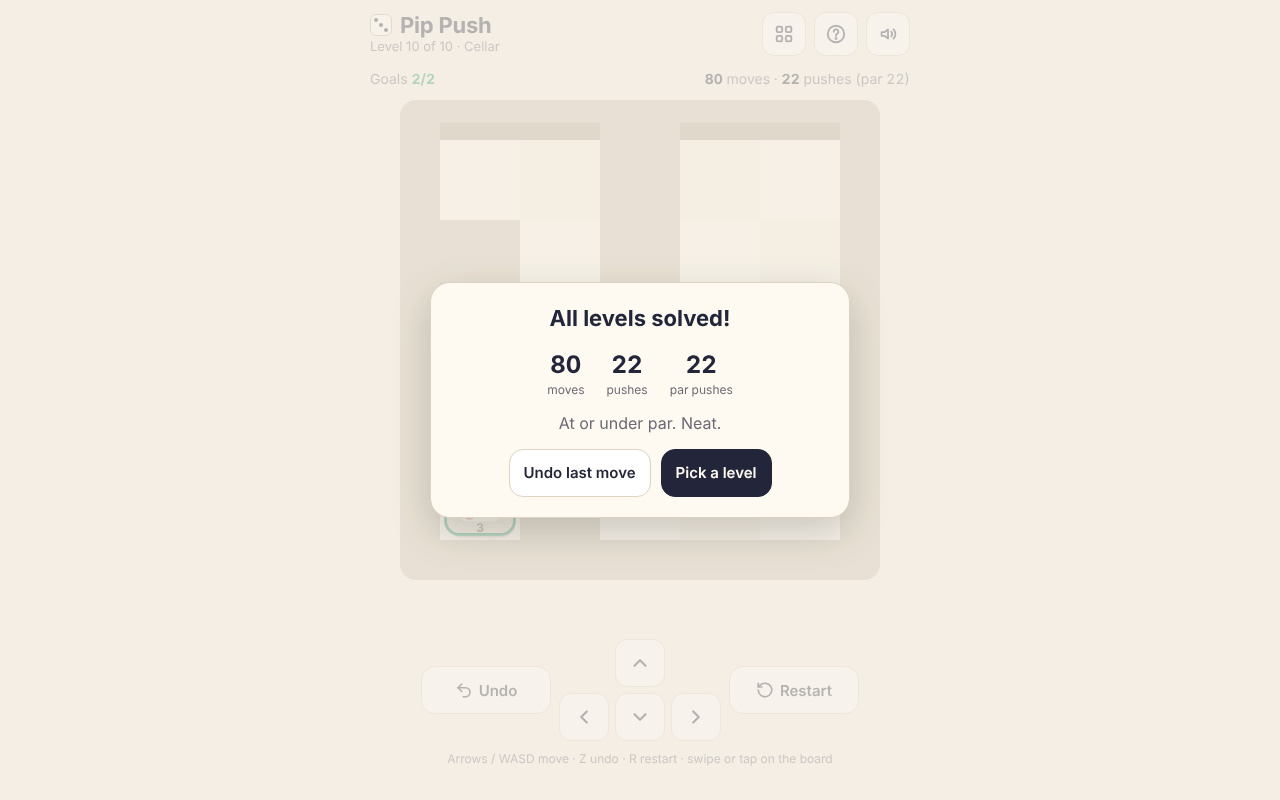
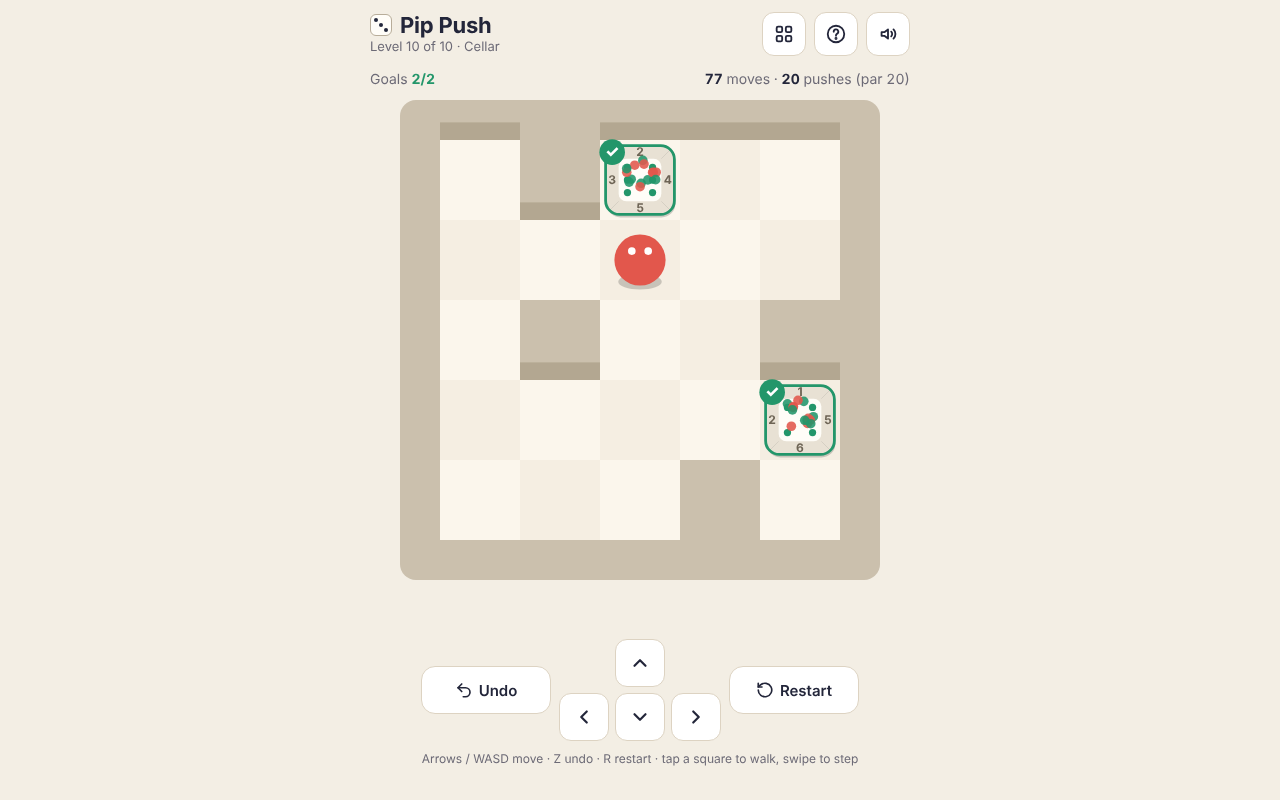
pip-push: reviewer fixes — tap-to-walk, levels 4-10 re-picked without push loops, win card waits, digits on goals, confetti cleared
Claude-Session: https://claude.ai/code/session_01CKorFHqhWqDpMXxzzfGbci

diff --git a/games/pip-push/index.html b/games/pip-push/index.html
@@ -118,7 +118,7 @@
     </div>
     <button class="big" id="restartBtn" aria-label="Restart (R)"><svg viewBox="0 0 24 24"><path d="M3 12a9 9 0 1 0 3-6.7L3 8"/><path d="M3 3v5h5"/></svg><span class="lbl">Restart</span></button>
   </div>
-  <p class="keys">Arrows / WASD move · Z undo · R restart · swipe or tap on the board</p>
+  <p class="keys">Arrows / WASD move · Z undo · R restart · tap a square to walk, swipe to step</p>
 </main>
 
 <div class="sheet" id="winSheet" hidden>
@@ -144,6 +144,7 @@
       <li>The die tips over as it moves: <b>the side you push against becomes the top.</b></li>
       <li>The small numbers around a die are its side faces. Opposite faces add up to 7.</li>
       <li>Get every die onto a goal showing that goal's number on top.</li>
+      <li>Tap a free square to walk there (it never pushes). Tap or swipe next to a die to push it.</li>
       <li>Stuck? Undo as often as you like, or Restart.</li>
     </ol>
     <label class="toggle"><span>Show side faces on dice</span><input type="checkbox" id="sidesToggle" checked></label>
@@ -160,19 +161,20 @@ const LEVELS = /*LEVELS*/[
   {"name":"First roll","map":["#######","#@....#","#######"],"dice":[[2,1,1,2,3]],"goals":[[5,1,3]],"sol":"RRR","par":3},
   {"name":"Side step","map":["######","#....#","#@...#","#....#","######"],"dice":[[3,2,4,1,5]],"goals":[[4,3,6]],"sol":"URRRDLULDLDRR","par":4},
   {"name":"Nook","map":["######","#.#.@#","#....#","#....#","######"],"dice":[[2,2,4,2,1]],"goals":[[4,3,3]],"sol":"DDLLLURDRRUULDLDR","par":3},
-  {"name":"Corner three","map":["######","#....#","#....#","##...#","#.@..#","######"],"dice":[[2,3,5,6,4]],"goals":[[4,1,3]],"sol":"URUULLDRURDRDLDLURUULLDRURDLDRDRUU","par":10},
+  {"name":"Turnaround","map":["######","#....#","#@...#","#....#","######"],"dice":[[3,2,2,6,3]],"goals":[[4,1,6]],"sol":"URRRDLDLULURR","par":4},
+  {"name":"Wander","map":["#######","#...#.#","#..@..#","##....#","#.....#","#######"],"dice":[[2,2,2,1,4]],"goals":[[1,2,2]],"sol":"ULLDRURDLDRDRURULDLLUURDRDLDLURUL","par":9},
   {"name":"Two dice","map":["######","#@...#","#....#","#....#","#....#","######"],"dice":[[2,3,3,5,1],[3,4,4,6,2]],"goals":[[1,4,3],[2,1,6]],"sol":"DDDRULURURDRDLRDLLULURDRURUL","par":10},
-  {"name":"Long way round","map":["#######","#..@..#","#....##","#.#...#","#.....#","#######"],"dice":[[3,3,4,2,1]],"goals":[[1,1,6]],"sol":"DRDDLUDLLUURRURDLDDRRULDLUDLLUURRURDLDDRRULDLUURULL","par":12},
-  {"name":"Tight shelf","map":["#######","##....#","#....##","#.#...#","#.@...#","#######"],"dice":[[4,1,2,3,1],[3,2,3,6,5]],"goals":[[5,1,6],[4,2,3]],"sol":"LUURRURDLDDRRULDLUDLLUURRURDLDDRRULDLUDLLUURR","par":10},
-  {"name":"Pillar","map":["#######","#.....#","#.#@..#","#.....#","#.....#","#######"],"dice":[[4,2,1,3,5],[2,3,1,5,4]],"goals":[[3,3,5],[1,3,1]],"sol":"URDRDLDLUDLLURRDRURUULLDULLDDRRUURRDLULDRRDDLULLRUURDRDL","par":15},
-  {"name":"Twin twos","map":["#######","#..@.##","#.....#","##....#","##...##","#######"],"dice":[[4,3,6,4,5],[3,3,5,4,1]],"goals":[[3,2,2],[2,4,2]],"sol":"DLDDRRULDLURUULLDRURDLDDRRULDLURRRULULDRDLUULLDRDURURDRDLDLU","par":16},
-  {"name":"Cellar","map":["#######","#..#..#","##.#..#","#.....#","#.@...#","#.#...#","#######"],"dice":[[3,3,2,6,3],[3,4,5,3,6]],"goals":[[1,5,1],[2,3,6]],"sol":"URLDRDRRULRUULDRDDLLULURDDRRULRUULDRDDLLULURDDRRULULLDRDRURULRUULDDRDLLLULDRRRUL","par":22}
+  {"name":"Crossing","map":["######","#....#","#@...#","#....#","##..##","######"],"dice":[[2,2,4,6,2],[2,3,5,3,6]],"goals":[[1,1,4],[4,3,3]],"sol":"RURRDDLDLULUURRDULLDRURRDDLDLULUURRDULLDRDRURULL","par":12},
+  {"name":"Open floor","map":["#######","##....#","#.....#","#.....#","#...@.#","#######"],"dice":[[4,2,1,3,5],[4,3,5,6,4]],"goals":[[2,4,4],[5,3,1]],"sol":"RULDLULUURRDRDLUULLDRDUURDRDLDLULURRURD","par":13},
+  {"name":"Post","map":["#######","#.....#","#.....#","#.#...#","#...@##","#######"],"dice":[[3,2,5,6,4],[4,2,4,5,6]],"goals":[[1,2,4],[5,2,2]],"sol":"URUULDULLDRURRDDLDLURRUULDULLDRURRDDLDLURRUULDLLRRRDLDLURUULLDRR","par":15},
+  {"name":"Cellar","map":["#######","#.#...#","#...@.#","#.#..##","#.....#","#...#.#","#######"],"dice":[[2,2,4,1,5],[3,4,4,1,5]],"goals":[[3,1,6],[5,4,4]],"sol":"DDLDLLUUURRURDLLLDDRDRUUDLLUURRURRDLLDDRULUURRDLULDRDDLLLUURRURDDULLLDDRRRLUU","par":20}
 ];
 const TIPS = {
   0: "Walk into the die to push it. Watch the top number change.",
   1: "<b>The side you push against becomes the top.</b> The small numbers are the sides.",
   2: "Sometimes you have to walk around a die to push it from another side.",
-  4: "Two dice, two goals. Each goal wants its own number.",
+  3: "A small loop turns a die: push it one way, then around and back. Tap a square to walk there.",
+  5: "Two dice, two goals. Each goal wants its own number.",
 };
 const DIRS = { U: [0, -1], D: [0, 1], L: [-1, 0], R: [1, 0] };
 const SAVE_KEY = "pippush.v1";
@@ -326,7 +328,10 @@ function drawGoal(x, y, n, covered, met) {
   ctx.setLineDash([cell * 0.09, cell * 0.07]); ctx.lineWidth = Math.max(1.5, cell * 0.04);
   ctx.strokeStyle = met ? C.ok : C.goal; rr(px + m, py + m, cell - 2 * m, cell - 2 * m, cell * 0.18); ctx.stroke();
   ctx.setLineDash([]);
-  if (!covered) { ctx.globalAlpha = 0.75; drawPips(px + cell / 2, py + cell / 2, cell * 0.62, n, C.goal); }
+  if (!covered) { // digits, like the side faces, so numbers read the same everywhere
+    ctx.fillStyle = C.goal; ctx.font = `800 ${Math.round(cell * 0.44)}px system-ui, sans-serif`; ctx.textAlign = "center"; ctx.textBaseline = "middle";
+    ctx.fillText(n, px + cell / 2, py + cell / 2 + cell * 0.02);
+  }
   ctx.restore();
 }
 function drawBadge(x, y, n, met) {
@@ -384,7 +389,9 @@ function draw(now) {
   g.lv.goals.forEach((q, i) => { const di = dieAt(g, q.x, q.y); if (di >= 0 && !(anim && anim.push && anim.dieIndex === di)) drawBadge(q.x, q.y, q.n, status[i]); });
   // player
   let ppx = g.player[0] * cell, ppy = g.player[1] * cell;
-  if (anim) { const f = anim.from.player, [dx, dy] = DIRS[anim.d]; ppx = (f[0] + dx * k) * cell; ppy = (f[1] + dy * k) * cell; }
+  if (anim && anim.walk) { const pts = anim.walk, u = t * (pts.length - 1), i = Math.min(pts.length - 2, Math.floor(u)), f = u - i;
+    ppx = (pts[i][0] + (pts[i + 1][0] - pts[i][0]) * f) * cell; ppy = (pts[i][1] + (pts[i + 1][1] - pts[i][1]) * f) * cell; }
+  else if (anim) { const f = anim.from.player, [dx, dy] = DIRS[anim.d]; ppx = (f[0] + dx * k) * cell; ppy = (f[1] + dy * k) * cell; }
   if (shake && !shake.dieIndex && shake.dieIndex !== 0) { const st = (now - shake.t0) / 220; if (st < 1) { const amp = Math.sin(st * Math.PI * 6) * (1 - st) * cell * 0.05; ppx += DIRS[shake.d][0] * amp; ppy += DIRS[shake.d][1] * amp; } }
   if (shake && now - shake.t0 > 220) shake = null;
   drawPlayer(ppx, ppy, facing);
@@ -413,7 +420,9 @@ function renderUI() {
   $("restartBtn").disabled = !(g.moves > 0 || g.history.length);
   canvas.setAttribute("aria-label", describe());
   const won = g.screen === "won";
-  $("winSheet").hidden = !won;
+  // let the player see the last die land before the card covers the board
+  if (!won) { clearTimeout(winTimer); winTimer = null; $("winSheet").hidden = true; }
+  else if ($("winSheet").hidden && !winTimer) winTimer = setTimeout(() => { winTimer = null; if (game.screen === "won") { $("winSheet").hidden = false; $("wNext").focus(); } }, reduceMotion ? 300 : 700);
   if (won) {
     const last = g.level === LEVELS.length - 1;
     $("wMoves").textContent = g.moves; $("wPushes").textContent = g.pushes; $("wPar").textContent = L.par;
@@ -432,11 +441,35 @@ function describe() {
   g.lv.goals.forEach((q) => parts.push(`Goal at column ${q.x}, row ${q.y} wants ${q.n}.`));
   return parts.join(" ");
 }
+let winTimer = null;
 function sync() { renderUI(); requestDraw(); }
+// shortest walk to a free square that pushes nothing (tap-to-walk)
+function walkPath(g, tx, ty) {
+  const w = g.lv.w, key = (x, y) => y * w + x, start = key(g.player[0], g.player[1]);
+  const prev = new Map([[start, null]]), q = [[g.player[0], g.player[1]]];
+  while (q.length) {
+    const [x, y] = q.shift();
+    if (x === tx && y === ty) { const path = []; let k = key(x, y); while (prev.get(k)) { const [pk, d] = prev.get(k); path.unshift(d); k = pk; } return path; }
+    for (const d of "UDLR") { const nx = x + DIRS[d][0], ny = y + DIRS[d][1], nk = key(nx, ny);
+      if (isWall(g, nx, ny) || dieAt(g, nx, ny) >= 0 || prev.has(nk)) continue; prev.set(nk, [key(x, y), d]); q.push([nx, ny]); }
+  }
+  return null;
+}
+function walkTo(tx, ty) {
+  const path = walkPath(game, tx, ty);
+  if (!path || !path.length) { sfx.bump(); return; }
+  const before = game, pts = [before.player.slice()];
+  let g = game;
+  for (const d of path) { g = applyMove(g, d).g; pts.push(g.player.slice()); }
+  game = { ...g, history: before.history.concat([snapshot(before)]) }; // one undo step for the whole walk
+  facing = path[path.length - 1];
+  anim = reduceMotion ? null : { t0: performance.now(), dur: Math.min(500, 55 * path.length), from: before, walk: pts, push: false };
+  sfx.step(); sync();
+}
 
 // ================= actions =================
 function doAction(a) {
-  if (a === "undo") { game = undo(game); anim = null; sync(); return; }
+  if (a === "undo") { game = undo(game); anim = null; burst = null; sync(); return; }
   if (a === "restart") { game = restart(game); anim = null; sync(); return; }
   if (!DIRS[a]) return;
   facing = a;
@@ -466,7 +499,7 @@ function doAction(a) {
 function loadLevel(i) {
   game = newGame(Math.max(0, Math.min(LEVELS.length - 1, i)));
   save.level = game.level; persist();
-  anim = null; facing = "D"; layout(); sync();
+  anim = null; burst = null; shake = null; facing = "D"; layout(); sync();
 }
 
 // ================= input =================
@@ -498,23 +531,23 @@ canvas.addEventListener("pointerup", (e) => {
   if (Math.hypot(dx, dy) > Math.max(18, cell * 0.35)) { doAction(Math.abs(dx) > Math.abs(dy) ? (dx > 0 ? "R" : "L") : (dy > 0 ? "D" : "U")); return; }
   const rect = canvas.getBoundingClientRect();
   const cx = Math.floor((e.clientX - rect.left) / cell + 0.5), cy = Math.floor((e.clientY - rect.top) / cell + 0.5);
-  const [px, py] = game.player;
-  if (cx === px && cy !== py) doAction(cy < py ? "U" : "D");
-  else if (cy === py && cx !== px) doAction(cx < px ? "L" : "R");
-  else if (cx !== px || cy !== py) { // diagonal tap: step along the longer axis
-    const ax = cx - px, ay = cy - py; doAction(Math.abs(ax) >= Math.abs(ay) ? (ax > 0 ? "R" : "L") : (ay > 0 ? "D" : "U"));
-  }
+  const [px, py] = game.player, ax = cx - px, ay = cy - py;
+  if (Math.abs(ax) + Math.abs(ay) === 1) doAction(ax ? (ax > 0 ? "R" : "L") : (ay > 0 ? "D" : "U")); // next to you: step or push once
+  else if ((ax || ay) && !isWall(game, cx, cy) && dieAt(game, cx, cy) < 0) walkTo(cx, cy); // free square: walk there, never pushes
+  else if (ax || ay) sfx.bump();
 });
 canvas.addEventListener("pointercancel", () => { pdown = null; });
 // on-screen pad with hold-to-repeat
+const padStops = [];
 for (const [id, d] of [["pU", "U"], ["pD", "D"], ["pL", "L"], ["pR", "R"]]) {
   const b = $(id); let timer = null;
   const stop = () => { clearTimeout(timer); clearInterval(timer); timer = null; };
+  padStops.push(stop);
   b.addEventListener("pointerdown", (e) => { e.preventDefault(); stop(); doAction(d); timer = setTimeout(() => { timer = setInterval(() => doAction(d), 140); }, 380); });
   for (const ev of ["pointerup", "pointerleave", "pointercancel"]) b.addEventListener(ev, stop);
   b.addEventListener("click", (e) => { if (e.detail === 0) doAction(d); }); // keyboard activation only
 }
-$("undoBtn").onclick = () => doAction("undo");
+$("undoBtn").onclick = () => { padStops.forEach((f) => f()); doAction("undo"); };
 $("restartBtn").onclick = () => doAction("restart");
 $("wUndo").onclick = () => doAction("undo");
 function nextLevel() { if (game.level === LEVELS.length - 1) { openLevels(); } else loadLevel(game.level + 1); }
